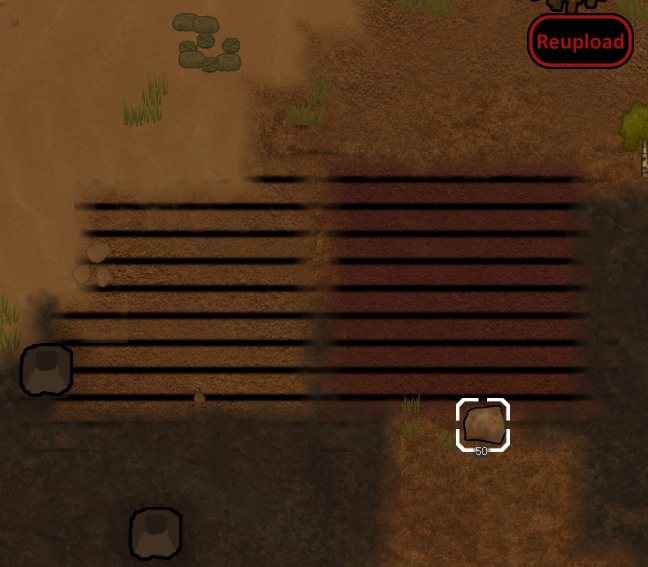
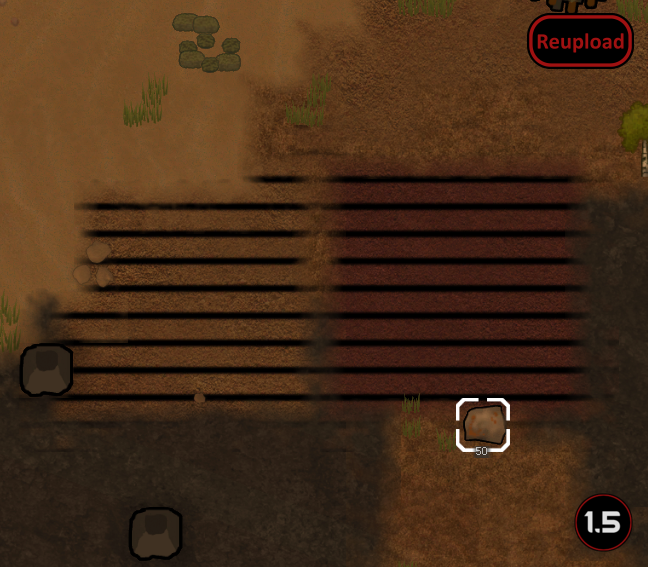
Mod updated for 1.5 and passed autotests

Changed region(s): [[0.8642, 0.8695, 0.9877, 0.9894]]

diff --git a/README.md b/README.md
@@ -22,9 +22,13 @@ Fertilized Irrigated Soil 2.0 Fertility    Requires 4 Raw Potatoes
 
 -  See if the the error persists if you just have this mod and its requirements active.
 -  If not, try adding your other mods until it happens again.
--  Post your error-log using https://steamcommunity.com/workshop/filedetails/?id=818773962]HugsLib and command Ctrl+F12
+-  Post your error-log using https://steamcommunity.com/workshop/filedetails/?id=818773962]HugsLib or the standalone https://steamcommunity.com/sharedfiles/filedetails/?id=2873415404]Uploader and command Ctrl+F12
 -  For best support, please use the Discord-channel for error-reporting.
 -  Do not report errors by making a discussion-thread, I get no notification of that.
 -  If you have the solution for a problem, please post it to the GitHub repository.
+-  Use https://github.com/RimSort/RimSort/releases/latest]RimSort to sort your mods
 
+
+
+https://steamcommunity.com/sharedfiles/filedetails/changelog/2818981197]![Image](https://img.shields.io/github/v/release/emipa606/Agriculture?label=latest%20version&style=plastic&color=9f1111&labelColor=black)
 
